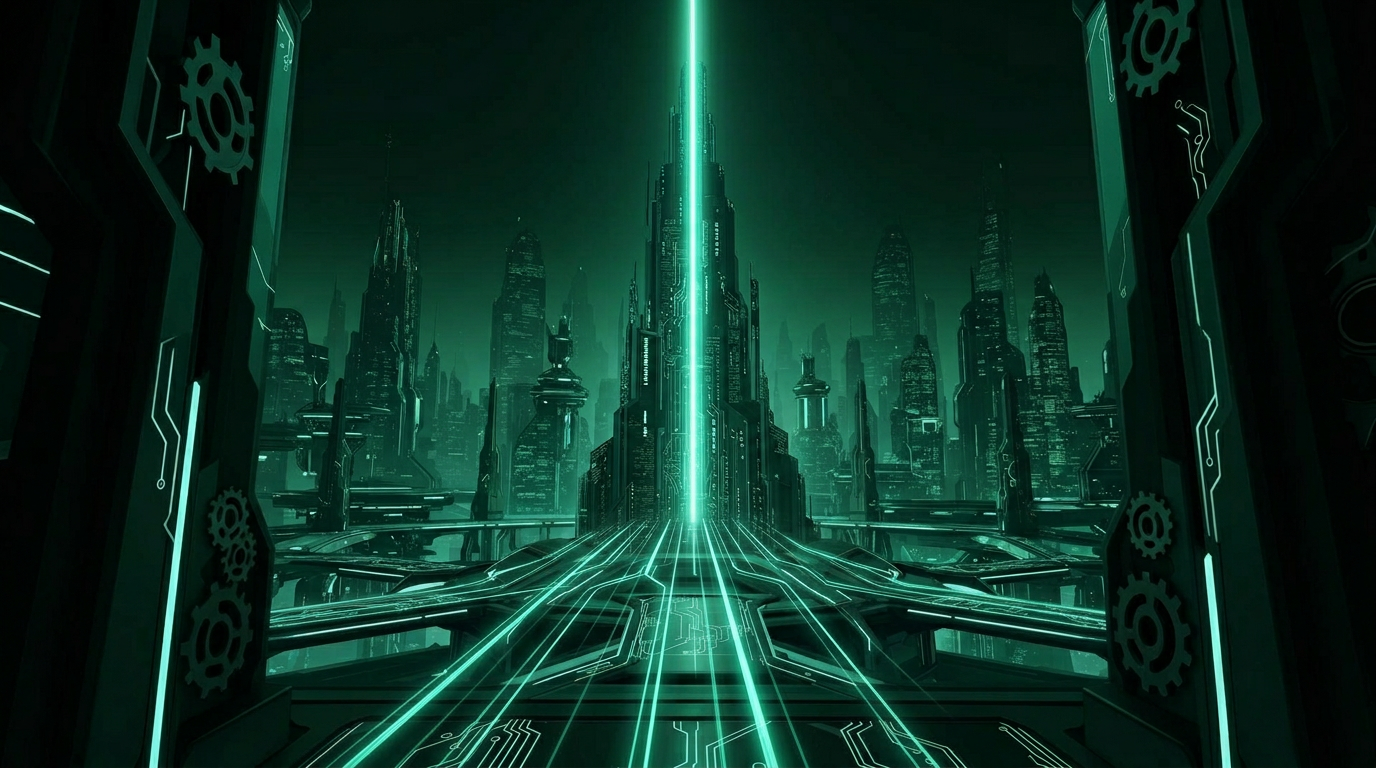
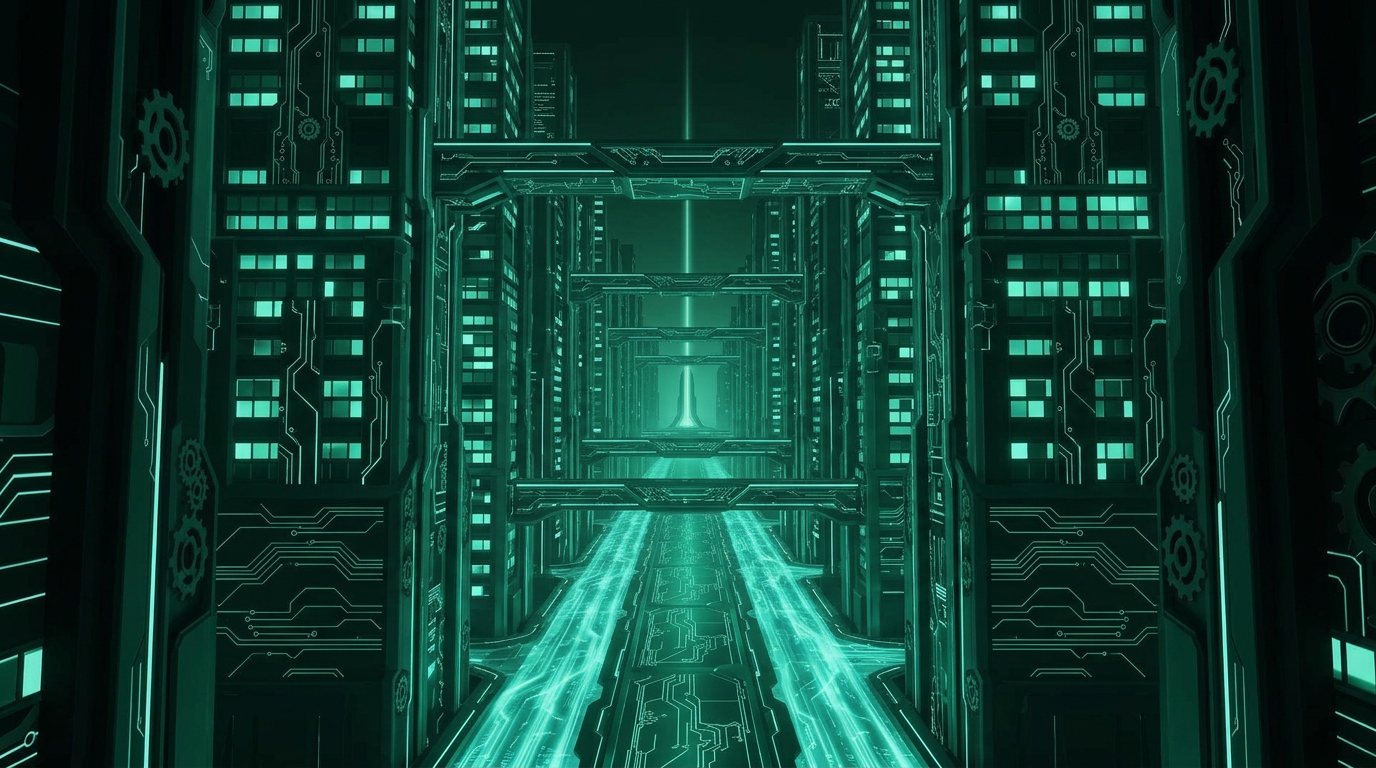
Changes

diff --git a/lib/levelBand.ts b/lib/levelBand.ts
@@ -14,13 +14,18 @@ export function getLevelBand(levelNum: number): LevelBand {
   return "foundation";
 }
 
-/** Background image per band */
+/**
+ * Background image per band.
+ * L1 + L2 → Foundation City (shared)
+ * L3 + L4 → Mid-City Data Canyon (shared)
+ * L5     → High Spire (standalone)
+ * L6     → Apex Sky-Vault (final)
+ */
 export function getHomeBg(levelNum: number): string {
-  if (levelNum >= 6) return "/images/number-nexus-home-bg-y5.jpg"; // apex reuses y5 for now
+  if (levelNum >= 6) return "/images/number-nexus-home-bg-y6.jpg";
   if (levelNum >= 5) return "/images/number-nexus-home-bg-y5.jpg";
-  if (levelNum >= 4) return "/images/number-nexus-home-bg-y4.jpg";
-  if (levelNum >= 3) return "/images/number-nexus-home-bg-y3.jpg";
-  return "/images/number-nexus-home-bg.jpg";
+  if (levelNum >= 3) return "/images/number-nexus-home-bg-y3.jpg"; // L3+L4 share
+  return "/images/number-nexus-home-bg.jpg"; // L1+L2 share
 }
 
 /** Image filter per band — unified Level-5 "Clash Royale" crisp treatment across all levels */
